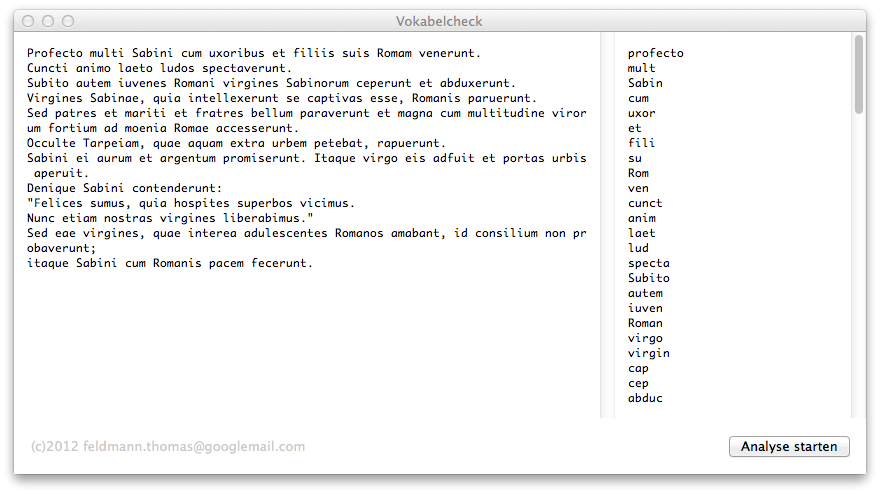
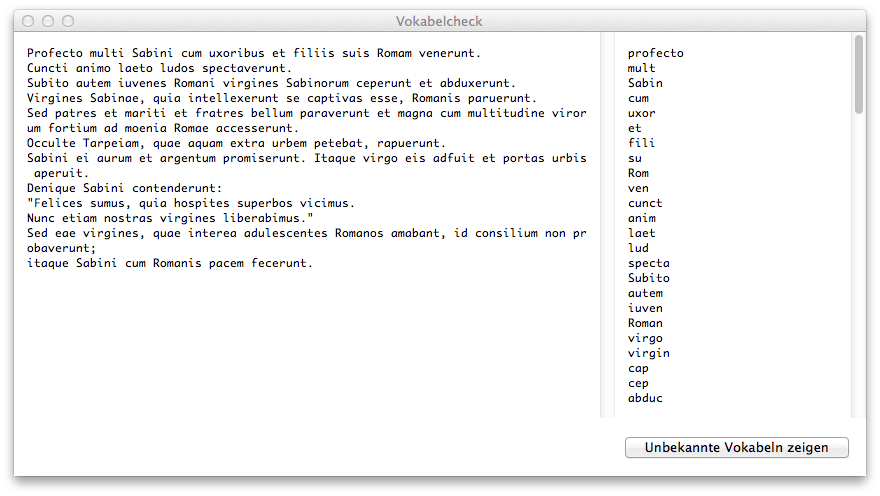
updated readme for v1.1

diff --git a/Readme.md b/Readme.md
@@ -1,7 +1,11 @@
 # Vokabelcheck
-Dieses Programm ermöglicht die Eingabe eines lateinischen Texts. Ein Klick auf "Analysieren" findet alle Vokabeln im Text, die nicht in der Vokabelliste aufgeführt sind. Zielgruppe sind Lehrer, die Schüler mit den geforderten Vokabeln versorgen müssen.
+Dieses Programm findet alle Vokabeln in einem lateinischen Text, die nicht in einer vorgegebenen Vokabelliste aufgeführt sind.
+Dazu werden den angegebenen Stammformen alle passenden lateinischen Endungen angehängt. Eine umfangreiche Liste von Endungen wird mitgeliefert, kann aber auch editiert werden.
+
+Zielgruppe sind Lehrer, die Schüler mit den geforderten Vokabeln versorgen müssen.
 
 ![Hauptfenster](https://raw.github.com/tfeldmann/Vokabelcheck/master/Screenshot.png)
+![Ergebnisfenster](https://raw.github.com/tfeldmann/Vokabelcheck/master/Screenshot-result.png)
 
 ## Installation
 Windows: Es wird eine Python Umgebung benötigt, die hier installiert werden kann: http://www.python.org/getit/
